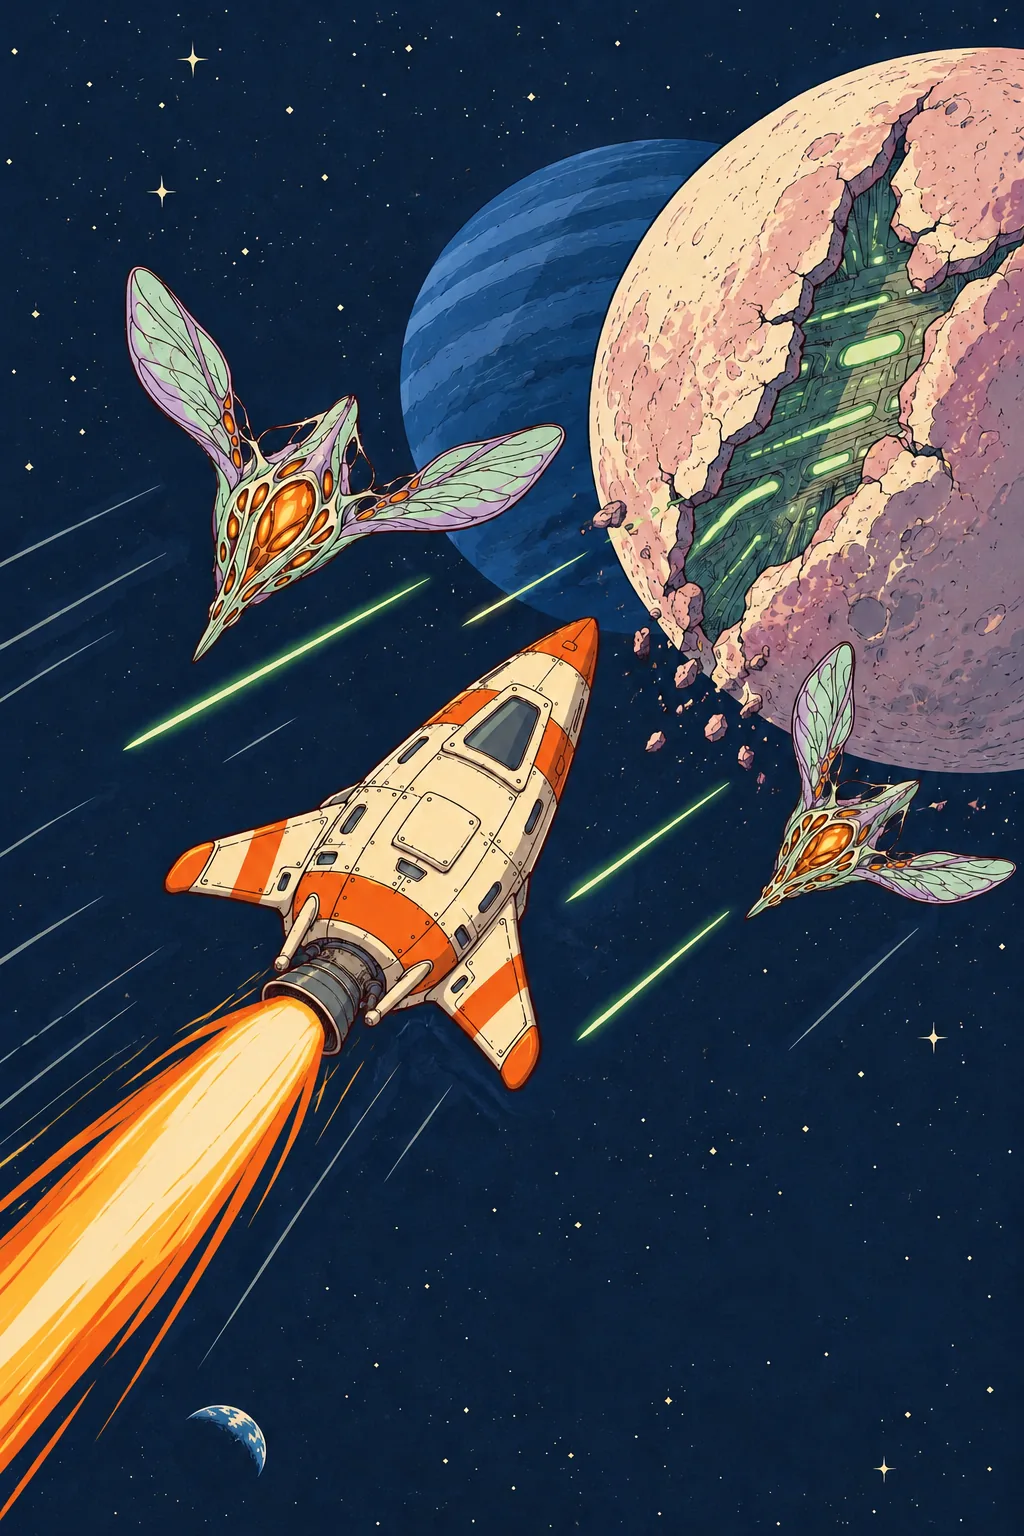
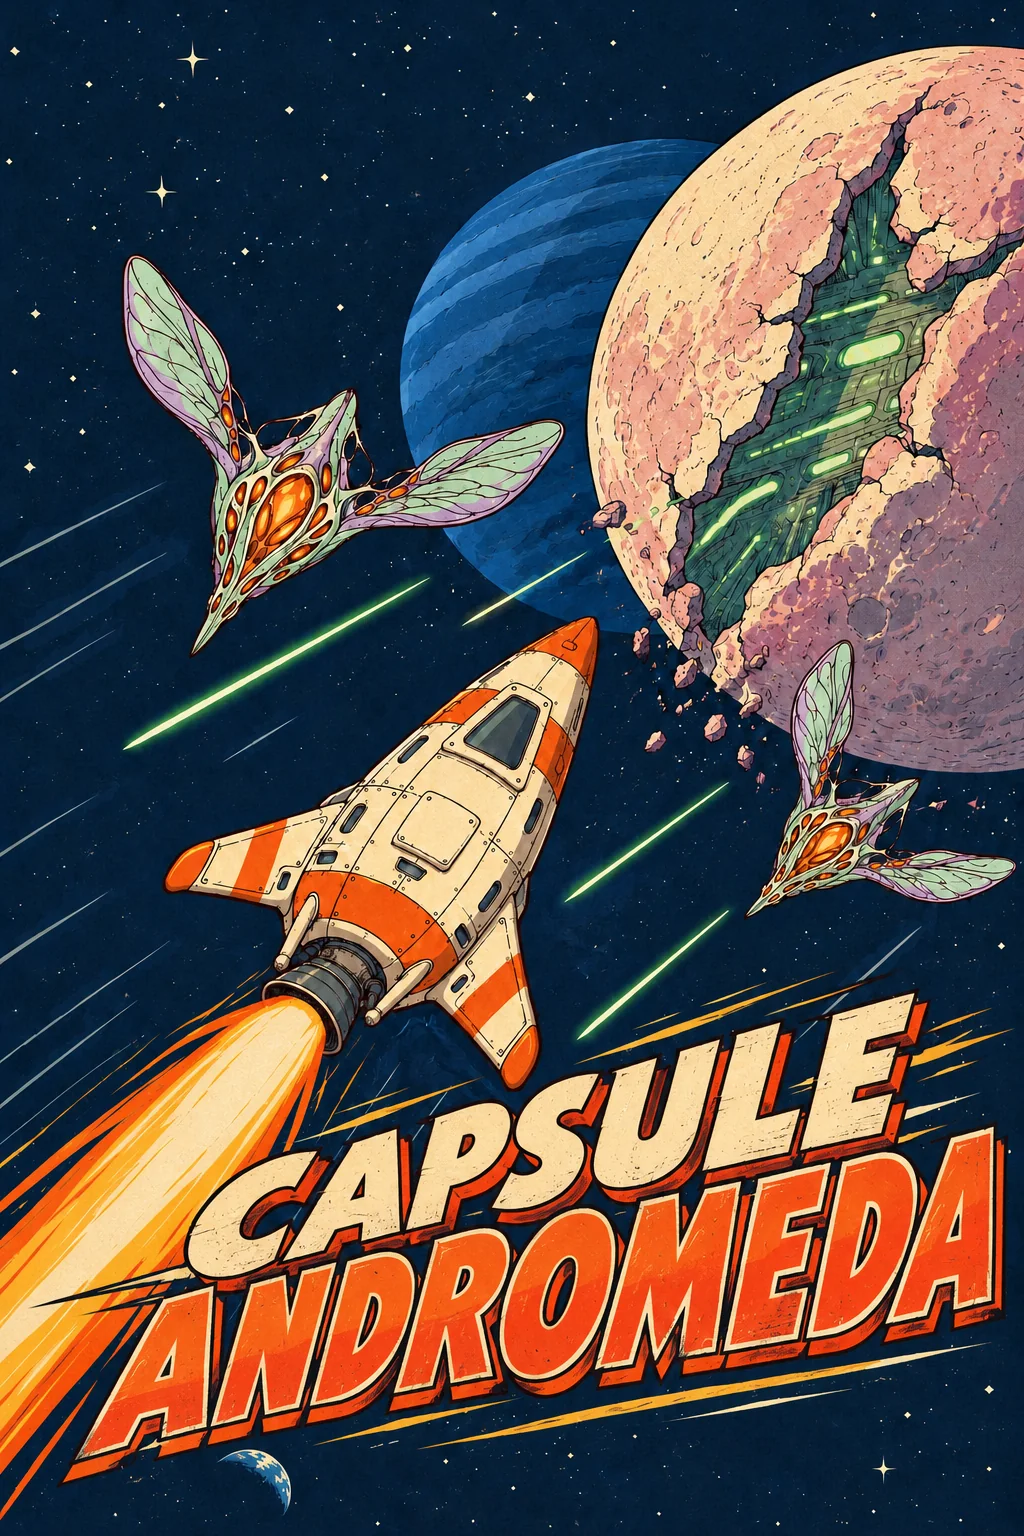
Couverture : le titre « CAPSULE ANDROMEDA » dessiné par ChatGPT
L'image entière, calée en bas sur toute la largeur (rognée, elle coupait le
titre) ; au-dessus, le ciel de nuit, l'étoile de la une et l'accroche du jour.

Claude-Session: https://claude.ai/code/session_01F6ocbpycmQ7YQZPxUJPY13

diff --git a/src/style.css b/src/style.css
@@ -2448,8 +2448,6 @@ body.volet-ouvert #annonces { display: none; }
 #couverture .aileron { fill: #e0571f; stroke: var(--encre); stroke-width: 2.5; stroke-linejoin: round; }
 #couverture .flamme { fill: #f2d58e; stroke: var(--encre); stroke-width: 2; animation: flamme-revue 0.25s ease-in-out infinite alternate; transform-origin: 0 30px; }
 @keyframes flamme-revue { to { transform: scaleY(1.35); } }
-#couverture .titre-revue { margin-top: 10px; font: 900 54px/0.88 'Big Shoulders Display', var(--titre); text-align: center; letter-spacing: 0.02em;
-  transform: skewX(-9deg) rotate(-3deg); text-shadow: 3px 3px 0 var(--creme), 6px 6px 0 var(--orange); }
 #couverture .une-revue { margin-top: 18px; padding: 6px 14px; font: italic 700 19px var(--titre); background: var(--creme); border: 2px solid var(--encre); transform: rotate(2deg); }
 #couverture .etoile-revue { position: absolute; right: 10px; top: 118px; width: 100px; height: 100px; display: grid; place-items: center; padding: 16px; text-align: center;
   font: 900 20px/1 'Big Shoulders Display', var(--titre); background: #f2d58e; transform: rotate(14deg);
@@ -2710,11 +2708,13 @@ body.volet-ouvert #annonces { display: none; }
 /* Là où l'accroche et la référence gravée mordent sur l'illustration, un halo de la couleur de l'onglet les détache. */
 #volet #volet-titre::before, #volet #volet-titre .accroche { text-shadow: 0 0 2px var(--rub), 0 0 5px var(--rub), 0 0 9px var(--rub); }
 
-/* La couverture illustrée par ChatGPT (Adrien, 25/10/2026 ; docs/couverture-prompts.md) : la capsule qui fonce vers
-   Triton fendu, en fond plein écran ; le titre et la une descendent au pied, sur un voile de nuit, en crème. */
-#couverture { background: linear-gradient(to bottom, transparent 58%, rgba(7, 20, 40, 0.75) 82%, rgba(7, 20, 40, 0.9)), url('/couverture.webp') 50% 40% / cover no-repeat, #072644; }
-#couverture .titre-revue { margin-top: auto; color: var(--creme); text-shadow: 3px 3px 0 var(--encre), 6px 6px 0 var(--orange); }
-#couverture .une-revue { margin-bottom: calc(44px + env(safe-area-inset-bottom)); }
+/* La couverture illustrée par ChatGPT, son titre compris (Adrien, 25/10/2026 ; docs/couverture-prompts.md) : la capsule
+   qui fonce vers Triton fendu et « CAPSULE ANDROMEDA » dessiné. L'image entière, sur toute la largeur et calée en bas
+   (rogner ses bords couperait le titre) ; au-dessus, le même ciel de nuit, quelques étoiles, l'étoile de la une et
+   l'accroche du jour. */
+#couverture { justify-content: flex-start; background: linear-gradient(#041d35, rgba(4, 29, 53, 0)) 0 calc(100vh - 150vw) / 100% 46px no-repeat,
+  url('/couverture.webp') 50% 100% / 100% auto no-repeat, radial-gradient(circle at 12% 6%, #faf2dc 1.4px, transparent 2.0px), radial-gradient(circle at 31% 14%, #faf2dc 1px, transparent 1.6px), radial-gradient(circle at 54% 4%, #faf2dc 1.2px, transparent 1.7999999999999998px), radial-gradient(circle at 78% 11%, #faf2dc 1.6px, transparent 2.2px), radial-gradient(circle at 91% 22%, #faf2dc 1px, transparent 1.6px), radial-gradient(circle at 8% 25%, #faf2dc 1px, transparent 1.6px), radial-gradient(circle at 44% 24%, #faf2dc 1.3px, transparent 1.9px), radial-gradient(circle at 66% 30%, #faf2dc 1px, transparent 1.6px), radial-gradient(circle at 22% 36%, #faf2dc 1.2px, transparent 1.7999999999999998px), radial-gradient(circle at 86% 38%, #faf2dc 1.1px, transparent 1.7000000000000002px), #041d35; }
+#couverture .une-revue { margin-top: calc(min(150px, 100vh - 150vw - 70px) + env(safe-area-inset-top)); }
 /* Sans le bandeau de la revue (Adrien, 25/10/2026) : l'étoile de la une se pose en haut à droite de la couverture, et
    en coin de la fenêtre de niveau. */
 #couverture .etoile-revue { top: calc(24px + env(safe-area-inset-top)); }

diff --git a/index.html b/index.html
@@ -22,7 +22,6 @@
          que le jeu se charge, puis s'efface tout seul (ou en le touchant). L'illustration de ChatGPT en fond (Adrien,
          25/10/2026 ; docs/couverture-prompts.md), le bandeau, le titre et la une écrits par le jeu. -->
     <div id="couverture" role="img" aria-label="Capsule Andromeda">
-      <h1 class="titre-revue">CAPSULE<br>ANDROMEDA</h1>
       <p class="une-revue" id="une-revue">L'invasion venue des étoiles !</p>
       <span class="etoile-revue">Inédit&nbsp;!</span>
     </div>

diff --git a/docs/avancement.md b/docs/avancement.md
@@ -95,7 +95,8 @@ Feuille de route : voir `CLAUDE.md`. Légende : **fait** / **en cours** / **à f
   clip-art à côté des illustrations) : fiche de prompts écrite (`docs/couverture-prompts.md`) ; les deux images reçues
   et posées le même jour (la couverture en fond, le titre au pied en crème ; l'icône en toutes tailles, plus une
   masquable pour Android) ; plus de nom de revue « CAPITAINES ! » (Adrien, 25/10/2026 : cheap), ni sur la couverture
-  ni dans la fenêtre de niveau (son étoile reste) ; le titre du jeu sera dessiné par ChatGPT (section 3 de la fiche).
+  ni dans la fenêtre de niveau (son étoile reste) ; le titre du jeu dessiné par ChatGPT, reçu le même jour : la
+  couverture entière, calée en bas, le ciel de nuit au-dessus avec l'étoile et l'accroche.
 - Bandeaux des volets illustrés (Adrien, 25/10/2026 : une illustration en lien avec l'onglet, mêmes tons) : validé,
   même hauteur (environ 100 px), pas de réduction au défilement, l'illustration à droite fondue dans l'aplat, une image
   d'atelier pour la Capsule ; fiche de prompts écrite (`docs/bandeaux-prompts.md`) ; les cinq images reçues et posées

diff --git a/docs/couverture-prompts.md b/docs/couverture-prompts.md
@@ -72,6 +72,10 @@ Vérifier chaque lettre avant de l'envoyer : ChatGPT écorche souvent les mots (
 
 ## Reçus
 
+- **La couverture avec son titre** (25/10/2026) : elle remplace la première. Affichée entière, sur toute la largeur
+  et calée en bas (rogner ses bords, comme avant, couperait le titre) ; au-dessus, le même ciel de nuit en aplat, quelques
+  étoiles, l'étoile de la une et l'accroche du jour ; le titre écrit par le jeu est retiré.
+
 - **La couverture** (25/10/2026) : `public/couverture.webp`, en fond plein écran (cadrée au centre : les bords sont
   rognés sur un téléphone) ; le titre et la une descendent au pied, en crème, sur un voile de nuit ; l'étoile de la
   une en haut à droite (le bandeau « CAPITAINES ! » retiré le même jour).
